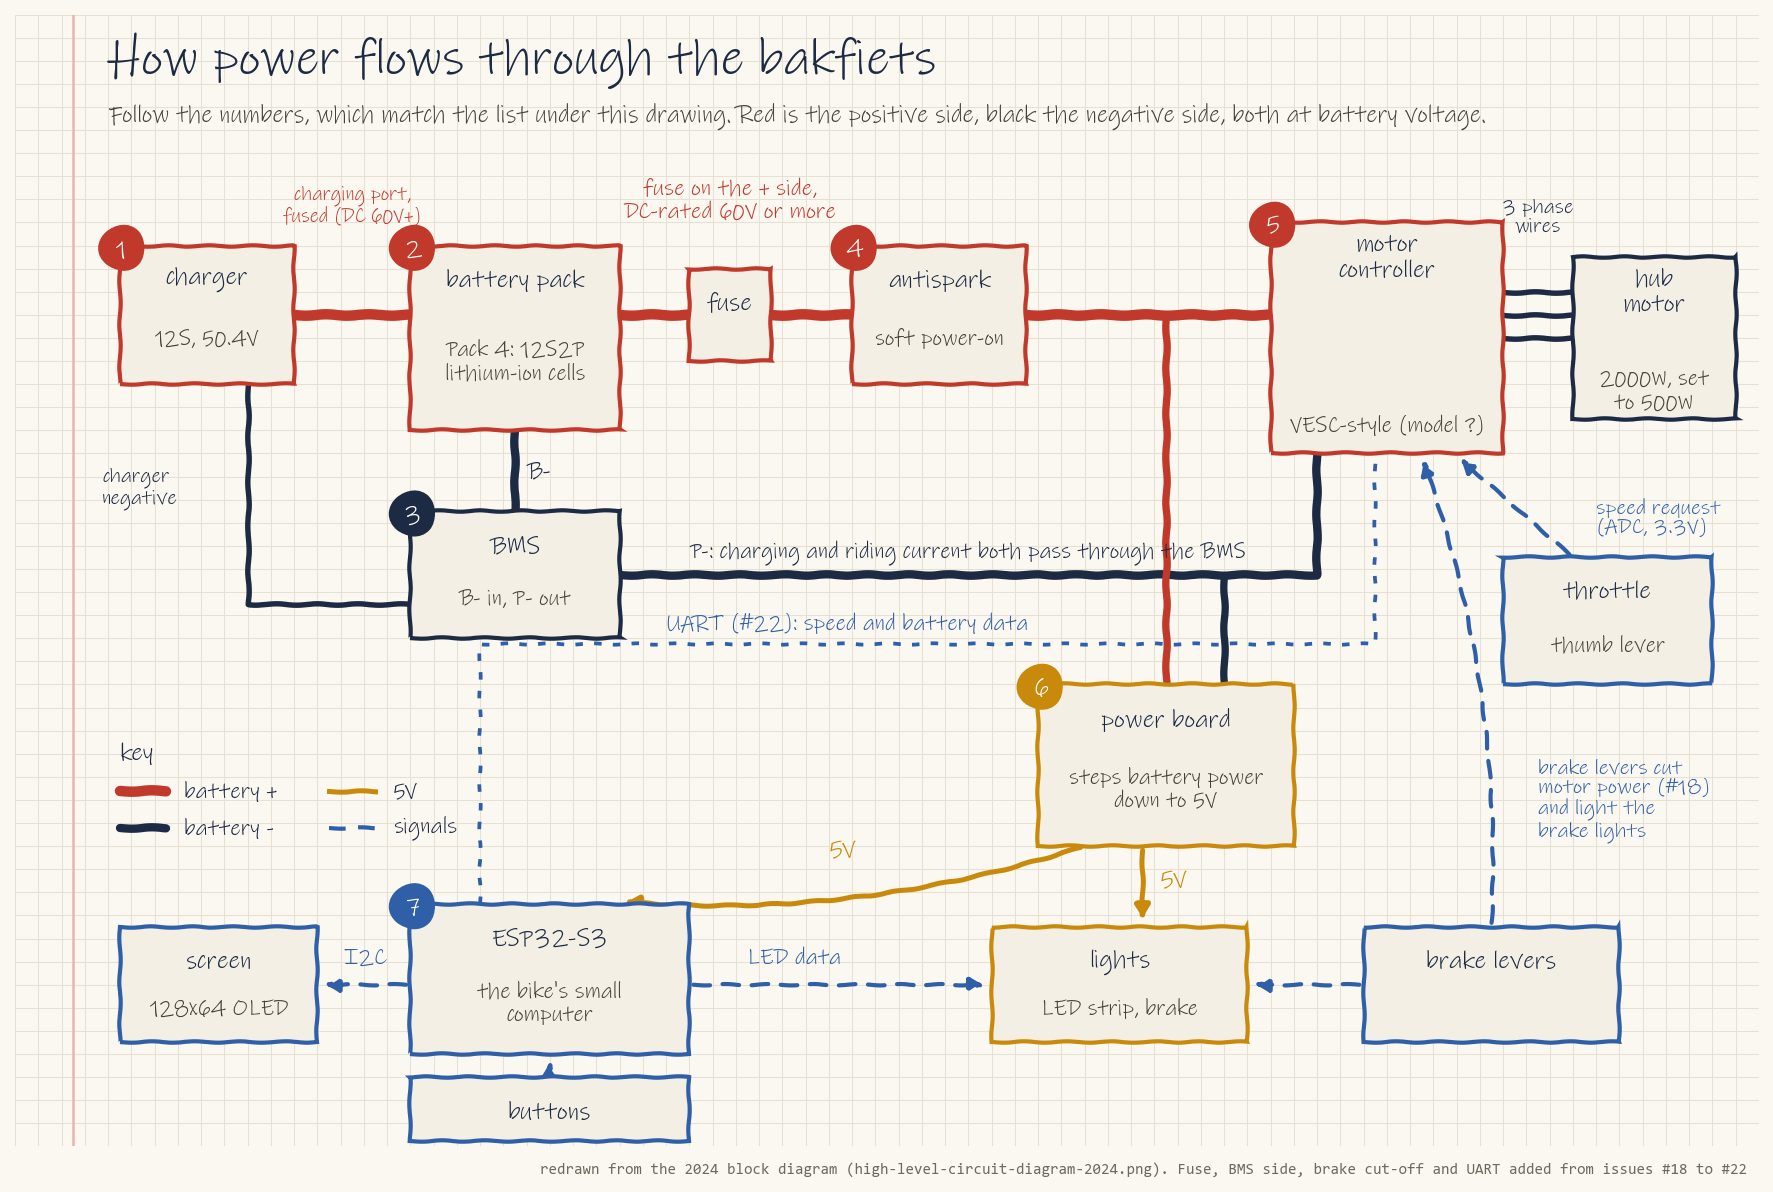
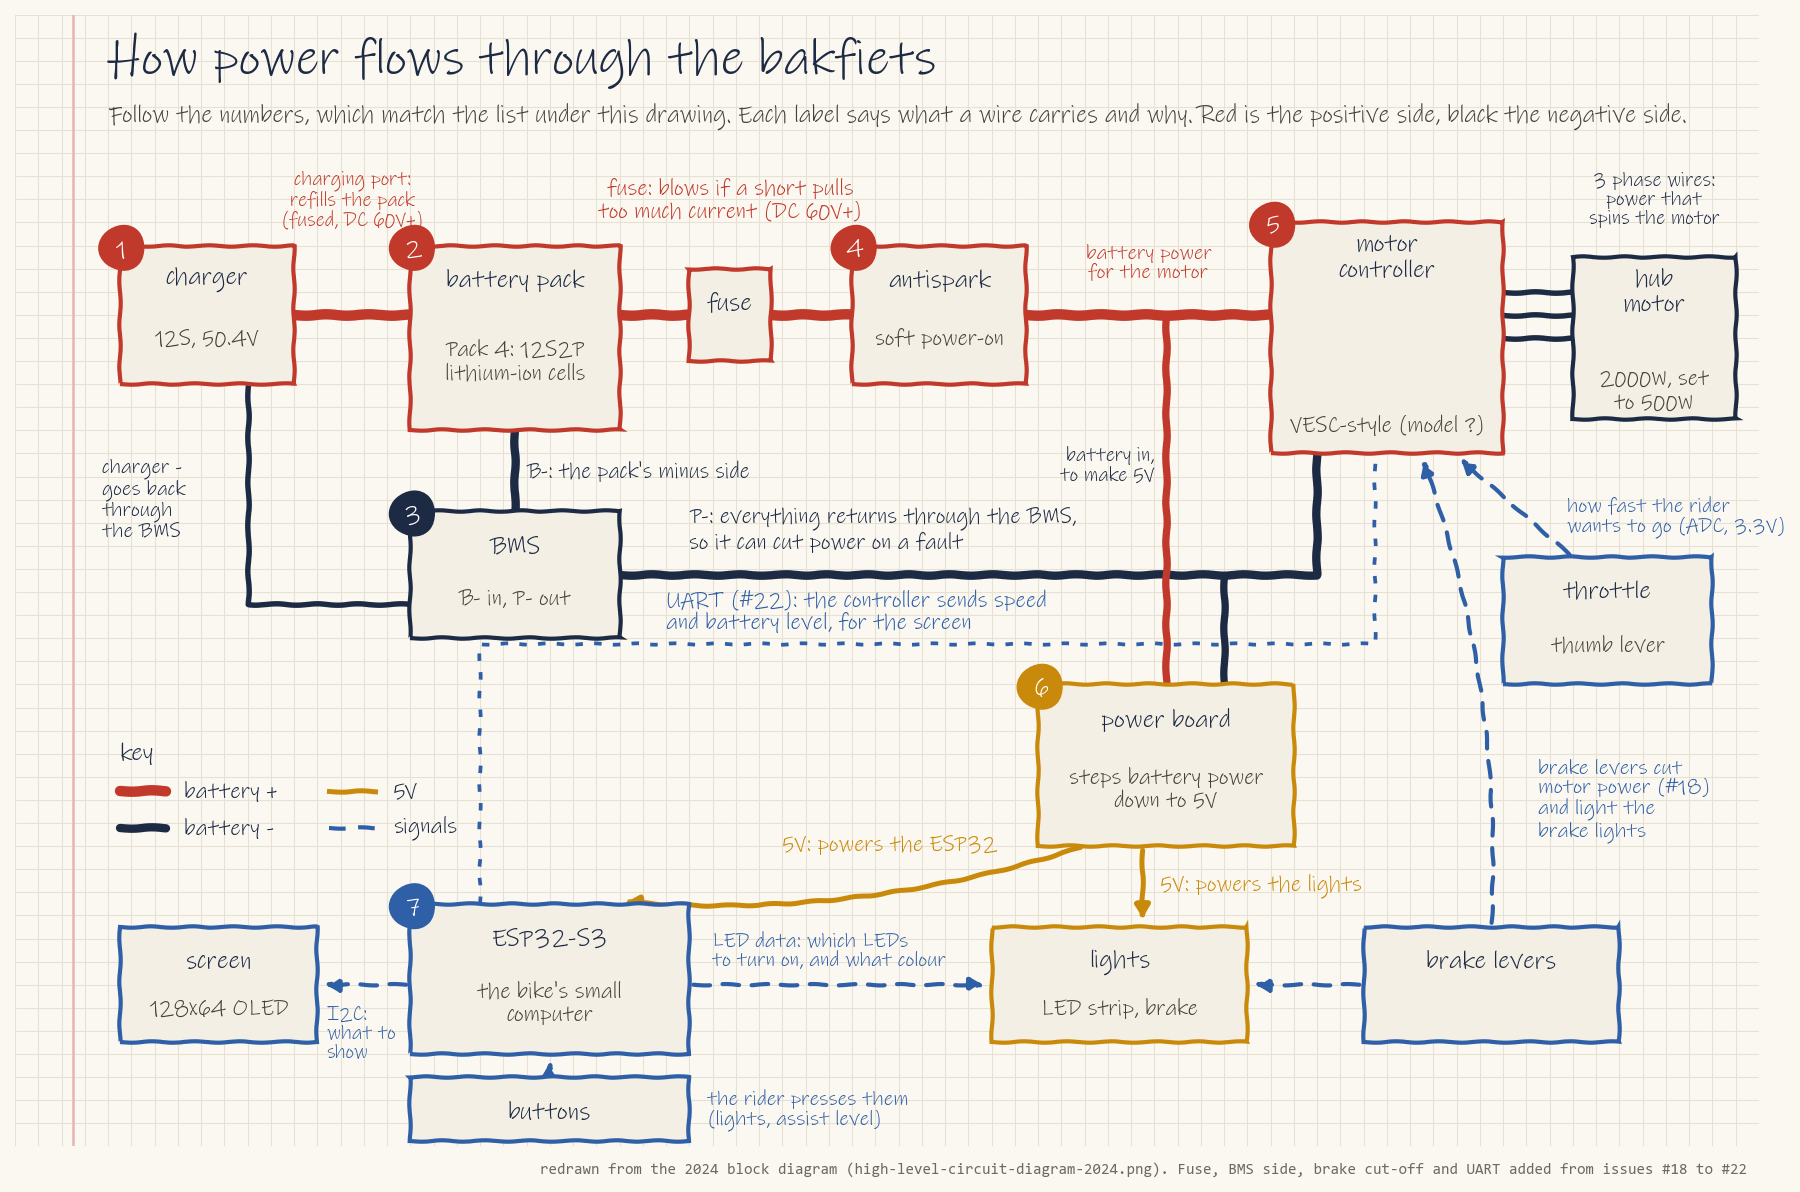
Power flow diagram: label every connection with what it carries and why

Changed region(s): [[0.031, 0.031, 0.9927, 0.9933], [0.0931, 0.6518, 0.1551, 0.7139]]

diff --git a/electrical/diagrams/bakfiets-power-flow.py b/electrical/diagrams/bakfiets-power-flow.py
@@ -6,7 +6,7 @@ from matplotlib.patches import Rectangle, Circle, FancyArrowPatch
 
 fig, ax = page(150, 98, (15, 9.8))
 note(ax, 8, 94, 'How power flows through the bakfiets', size=24, weight='bold')
-note(ax, 8, 89.2, 'Follow the numbers, which match the list under this drawing. Red is the positive side, black the negative side, both at battery voltage.',
+note(ax, 8, 89.2, 'Follow the numbers, which match the list under this drawing. Each label says what a wire carries and why. Red is the positive side, black the negative side.',
      size=11.5, color=PENCIL)
 
 def block(x, y, w, h, title, sub, col, n=None):
@@ -32,29 +32,31 @@ note(ax, 118, 62.5, 'VESC-style (model ?)', size=9.2, color=PENCIL, ha='center',
 block(134, 63, 14, 14, 'hub\nmotor', '', INK)
 note(ax, 141, 65.5, '2000W, set\nto 500W', size=9.2, color=PENCIL, ha='center', zorder=3)
 line([24, 34], [Y, Y]); line([52, 58], [Y, Y]); line([65, 72], [Y, Y]); line([87, 108], [Y, Y])
+note(ax, 97.5, 76.5, 'battery power\nfor the motor', size=8.5, color=RED, ha='center', linespacing=1)
 for dy in (-2, 0, 2): line([128, 134], [Y + dy, Y + dy], INK, lw=2.6)
-note(ax, 131, 80.5, '3 phase\nwires', size=8.5, color=INK, ha='center', linespacing=1)
-note(ax, 29, 81.5, 'charging port,\nfused (DC 60V+)', size=8.2, color=RED, ha='center', linespacing=1)
-note(ax, 61.5, 82, 'fuse on the + side,\nDC-rated 60V or more', size=9.5, color=RED, ha='center', linespacing=1.1)
+note(ax, 141, 82, '3 phase wires:\npower that\nspins the motor', size=8.2, color=INK, ha='center', linespacing=1)
+note(ax, 29, 82, 'charging port:\nrefills the pack\n(fused, DC 60V+)', size=8.2, color=RED, ha='center', linespacing=1)
+note(ax, 61.5, 82, 'fuse: blows if a short pulls\ntoo much current (DC 60V+)', size=9.2, color=RED, ha='center', linespacing=1.1)
 
 # negative side through the BMS
 block(34, 44, 18, 11, 'BMS', 'B- in, P- out', INK, 3)
 line([43, 43], [62, 55], INK, lw=4)
-note(ax, 44, 58.5, 'B-', size=10, color=INK, weight='bold')
+note(ax, 44, 58.5, "B-: the pack's minus side", size=9, color=INK)
 line([52, 112, 112], [49.5, 49.5, 60], INK, lw=4)
-note(ax, 58, 51.4, 'P-: charging and riding current both pass through the BMS', size=9.2, color=INK)
+note(ax, 58, 53.4, 'P-: everything returns through the BMS,\nso it can cut power on a fault', size=9.2, color=INK, linespacing=1.05)
 line([20, 20, 34], [66, 47, 47], INK, lw=2.6)
-note(ax, 7.5, 57, 'charger\nnegative', size=8.5, color=INK, linespacing=1)
+note(ax, 7.5, 56, 'charger -\ngoes back\nthrough\nthe BMS', size=8.5, color=INK, linespacing=1)
 
 # power board
 block(88, 26, 22, 14, 'power board', 'steps battery power\ndown to 5V', GOLD, 6)
 line([99, 99], [Y, 40], RED, lw=3.5)
 line([104, 104], [49.5, 40], INK, lw=3.5)
+note(ax, 98, 59, 'battery in,\nto make 5V', size=8.2, color=INK, ha='right', linespacing=1)
 
 # throttle and brakes into the controller
 block(128, 40, 18, 11, 'throttle', 'thumb lever', BLUE)
 arrow((134, 51), (124, 59.8), BLUE, ls=(0, (4, 3)))
-note(ax, 136, 54.5, 'speed request\n(ADC, 3.3V)', size=8.8, color=BLUE, linespacing=1.05)
+note(ax, 133.5, 54.5, 'how fast the rider\nwants to go (ADC, 3.3V)', size=8.5, color=BLUE, linespacing=1.05)
 
 # electronics
 block(34, 8, 24, 13, 'ESP32-S3', "the bike's small\ncomputer", BLUE, 7)
@@ -64,18 +66,19 @@ block(34, 0.5, 24, 5.5, 'buttons', '', BLUE)
 block(116, 9, 22, 10, 'brake levers', '', BLUE)
 arrow((92, 26), (52, 21.2), GOLD, lw=2.4, rad=-0.1)
 arrow((97, 26), (97, 19.2), GOLD, lw=2.4)
-note(ax, 70, 25.6, '5V', size=10.5, color=GOLD, weight='bold')
-note(ax, 98.5, 23, '5V', size=10.5, color=GOLD, weight='bold')
+note(ax, 66, 26.2, '5V: powers the ESP32', size=9.2, color=GOLD, weight='bold')
+note(ax, 98.5, 22.6, '5V: powers the lights', size=9.2, color=GOLD, weight='bold')
 arrow((34, 14), (26.2, 14), BLUE, ls=(0, (4, 3)))
-note(ax, 28.3, 16.4, 'I2C', size=9.5, color=BLUE)
+note(ax, 26.8, 9.8, 'I2C:\nwhat to\nshow', size=8.2, color=BLUE, linespacing=1)
 arrow((58, 14), (83.8, 14), BLUE, ls=(0, (4, 3)))
-note(ax, 63, 16.4, 'LED data', size=9.5, color=BLUE)
+note(ax, 60, 17, 'LED data: which LEDs\nto turn on, and what colour', size=8.5, color=BLUE, linespacing=1)
 arrow((46, 6), (46, 7.8), BLUE, ls=(0, (4, 3)))
+note(ax, 59.5, 3.2, 'the rider presses them\n(lights, assist level)', size=8.5, color=BLUE, linespacing=1)
 arrow((116, 14), (106.2, 14), BLUE, ls=(0, (4, 3)))
 arrow((127, 19), (121, 59.8), BLUE, ls=(0, (4, 3)), rad=0.1)
 note(ax, 131, 30, 'brake levers cut\nmotor power (#18)\nand light the\nbrake lights', size=8.8, color=BLUE, linespacing=1.05)
 ax.plot([40, 40, 117, 117], [21, 43.5, 43.5, 60], color=BLUE, lw=1.8, ls=(0, (2, 3)), zorder=1)
-note(ax, 56, 45.3, 'UART (#22): speed and battery data', size=9.3, color=BLUE)
+note(ax, 56, 46.4, 'UART (#22): the controller sends speed\nand battery level, for the screen', size=9.3, color=BLUE, linespacing=1.05)
 
 # key
 lx, ly = 9, 34
